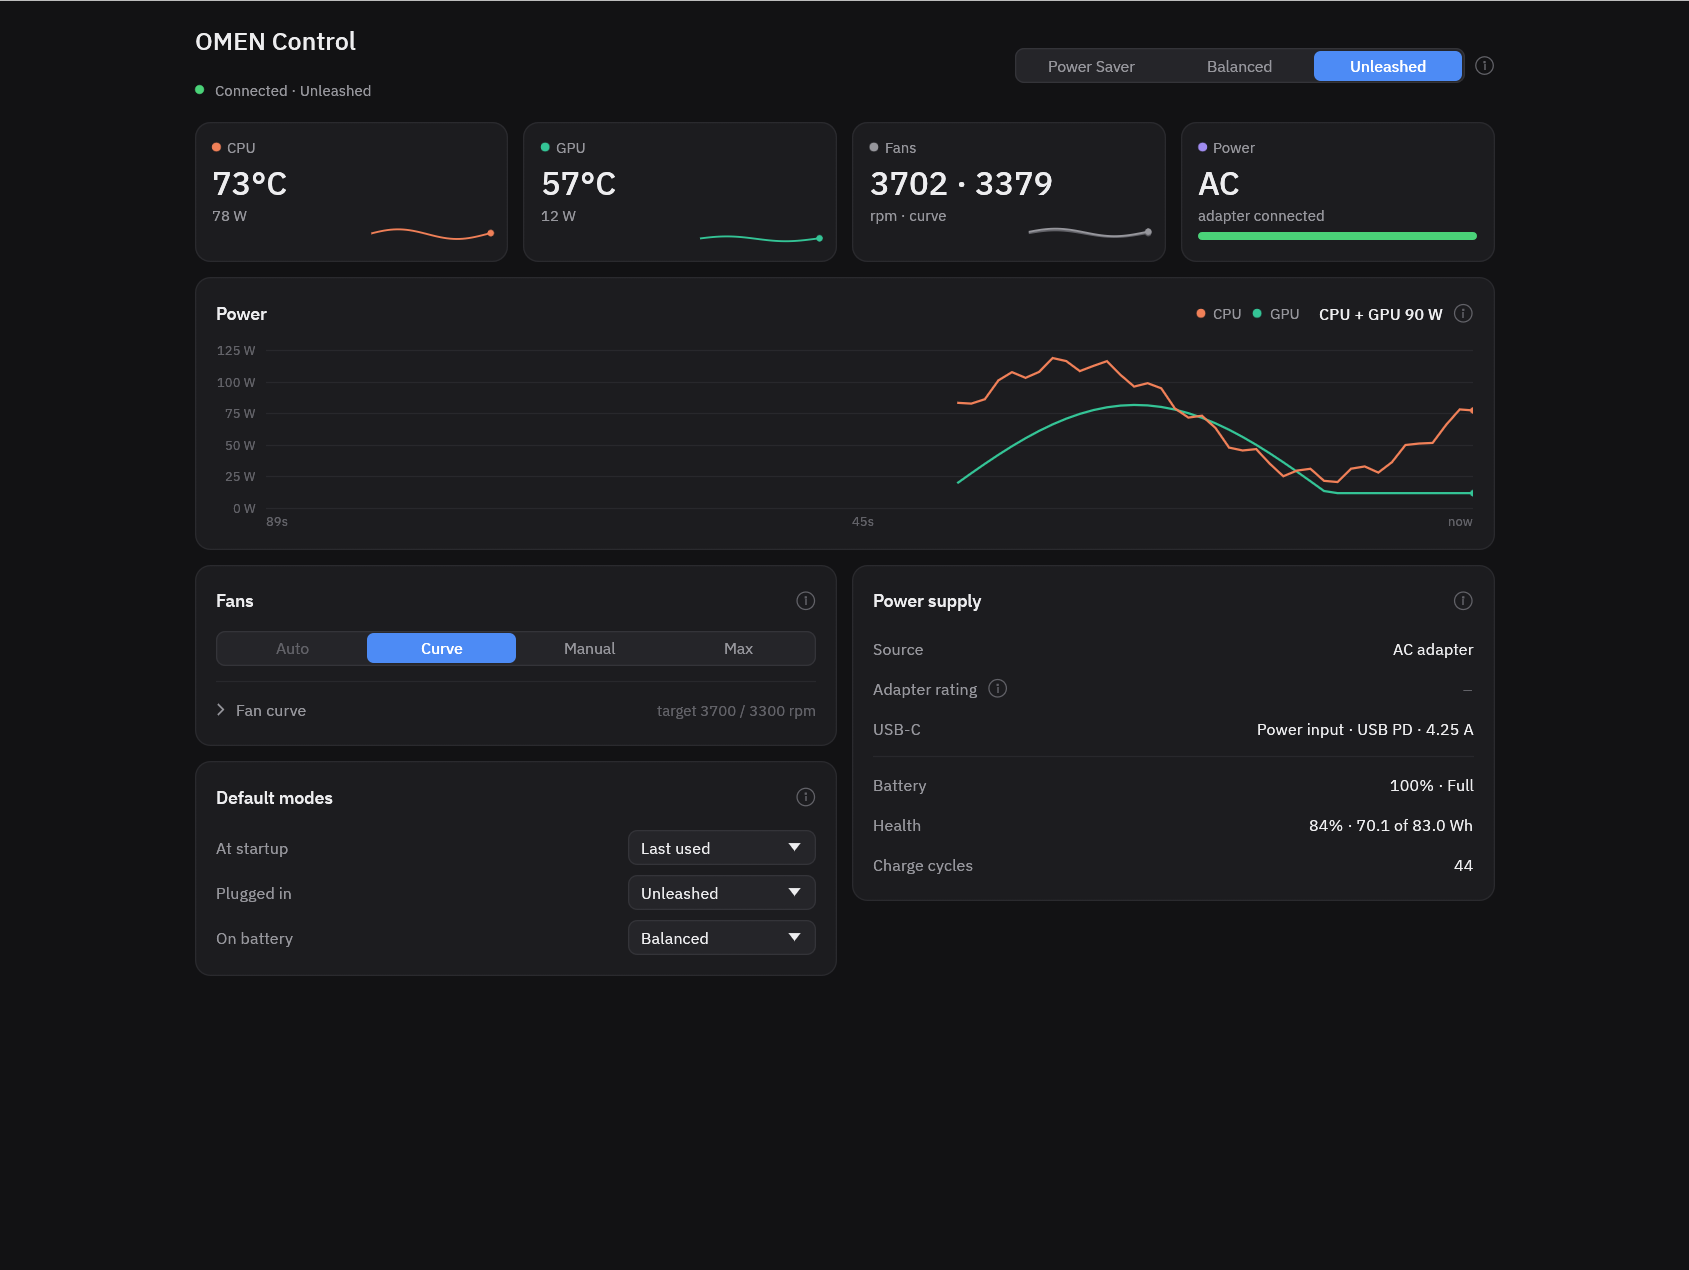
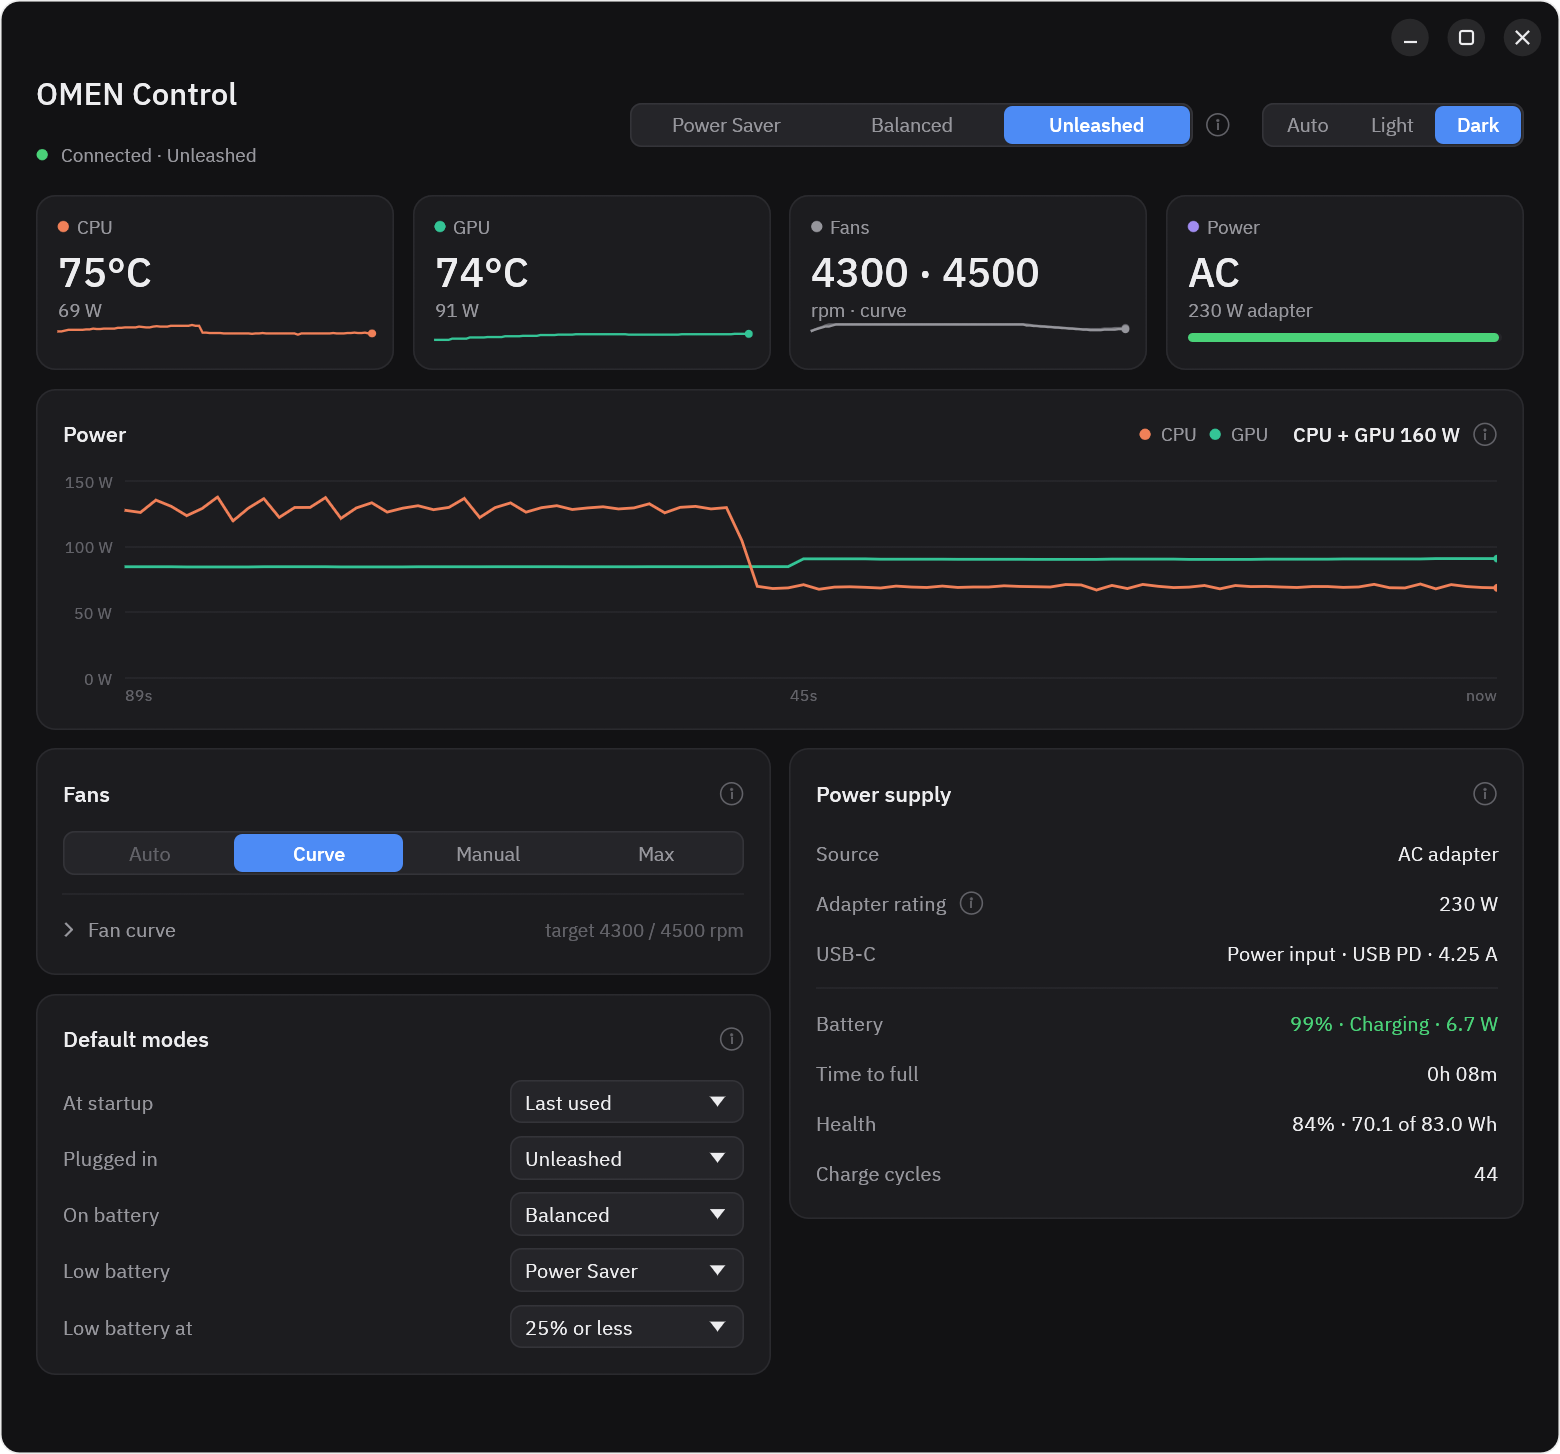
docs: screenshots of the new window frame; stress test can skip phases

diff --git a/README.md b/README.md
@@ -74,9 +74,9 @@ troubleshooting: [docs/USER_GUIDE.md](docs/USER_GUIDE.md). Changes per version:
 Bluetooth keyboard can't wake the laptop from suspend? That is a BlueZ problem, not an
 OMEN one; see the companion project [ubuntu-ble-wake-fix](https://github.com/ZerunW/ubuntu-ble-wake-fix).
 
-| Light theme, on battery | Default modes |
+| Light theme, on USB-C power (90 W) | Default modes |
 |---|---|
-| ![light](docs/screenshots/light-battery.png) | ![defaults](docs/screenshots/default-modes.png) |
+| ![light](docs/screenshots/light.png) | ![defaults](docs/screenshots/default-modes.png) |
 
 ## How it works (8D3F specifics)
 
